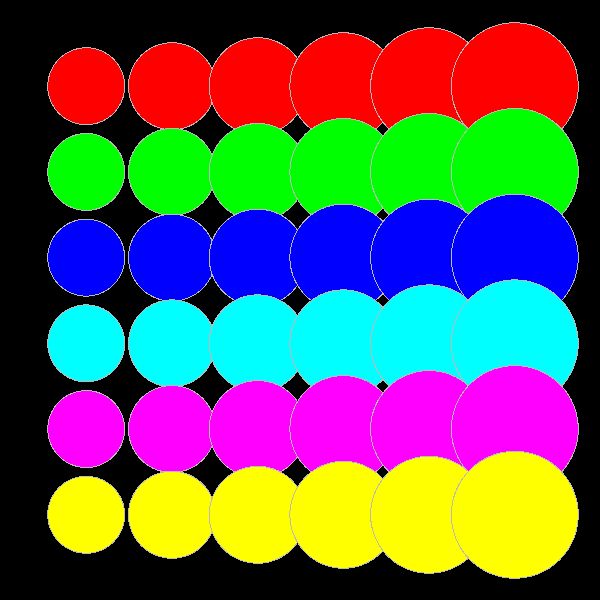
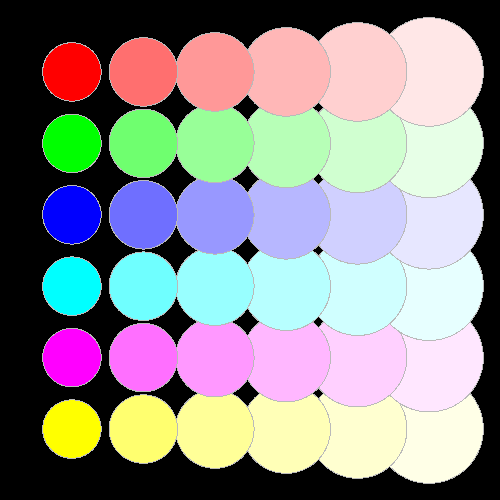
a01-3

diff --git a/src/cgg/A01.java b/src/cgg/A01.java
@@ -15,8 +15,8 @@ import static tools.Color.yellow;
 public class A01 {
 
   public static void main(String[] args) {
-    int width = 600;
-    int height = 600;
+    int width = 500;
+    int height = 500;
 
     DiscLiveStart drawer = new DiscLiveStart();
     drawer.drawGridOfCircles(width, height, "6*6_circle", 6, 6);
@@ -35,6 +35,7 @@ public class A01 {
     public void drawGridOfCircles(int width, int height, String fileName, int rows, int cols){
       var image = new Image(width, height);
 
+
       for (int x=0; x<width; x++){
         for (int y=0; y<height; y++) {
           image.setPixel(x, y, black);
@@ -48,12 +49,25 @@ public class A01 {
 
 
       //圆的参数，中心在图像中间，半径为120
-      for (int row = 0; row < rows; row++){
-        Color fillColor = rowColors[row];
+      for (int row = rows - 1; row >= 0; row--){
+        Color baseColor = rowColors[row];
 
-        for (int col=0; col<cols; col++){
+        for (int col = cols - 1; col >= 0; col--){
+          // 计算混合系数 t，从左到右，t从0逐渐增加到1
+          // 这里使用 (cols - 1 - col) 是为了让最左边（col=0）的 t=1，最右边（col=5）的 t=0
+          // 这样可以确保颜色从左到右逐渐变浅。
+          double mixFactor = ((double)(col) / (cols - 1))*0.8;
+
+          // 根据混合系数 t 计算新的填充颜色
+          Color fillColor = new Color(
+            baseColor.r() + (1.0 - baseColor.r()) * mixFactor,
+            baseColor.g() + (1.0 - baseColor.g()) * mixFactor,
+            baseColor.b() + (1.0 - baseColor.b()) * mixFactor
+          );
+
+
           //动态计算半径，让它随着列数增大
-          double radius = (Math.min(cellWidth, cellHeight) / 2.2) + (col*5);
+          double radius = (Math.min(cellWidth, cellHeight) / 2.4) + (col*5);
           double centerX = cellWidth * (col + 1);
           double centerY = cellHeight * (row + 1);
 
